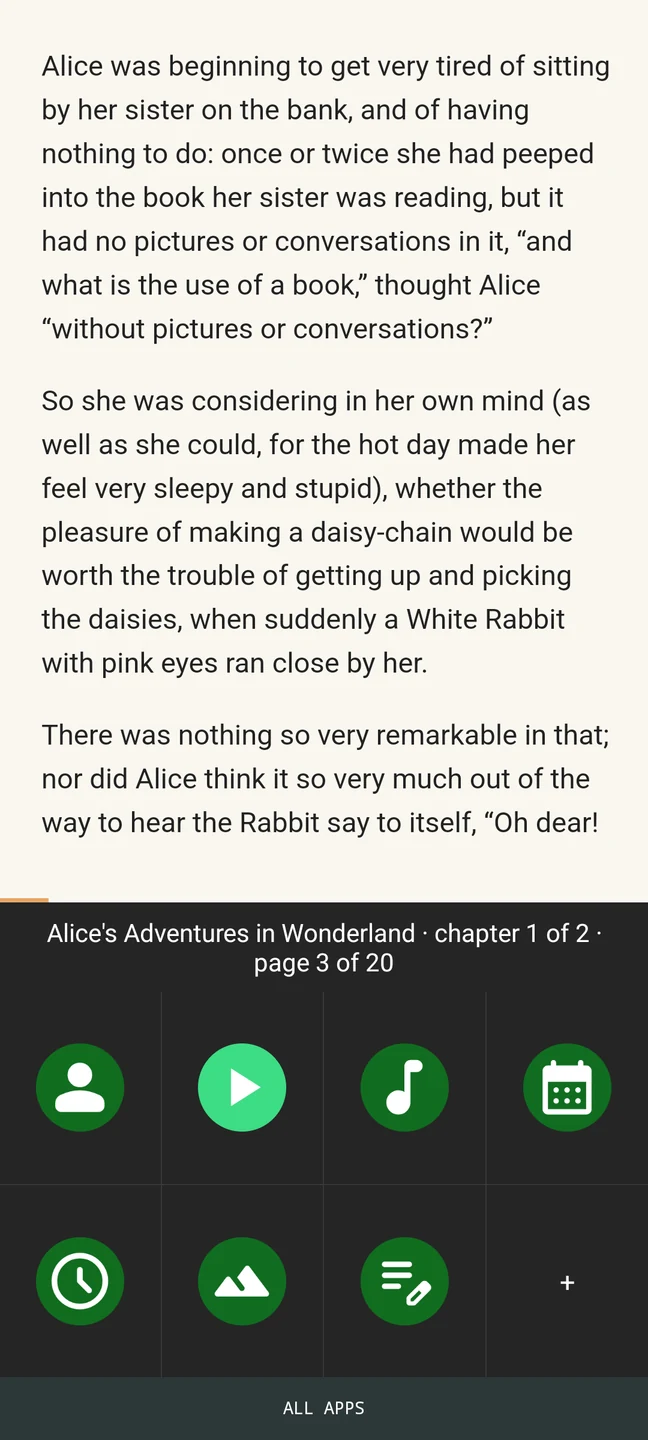
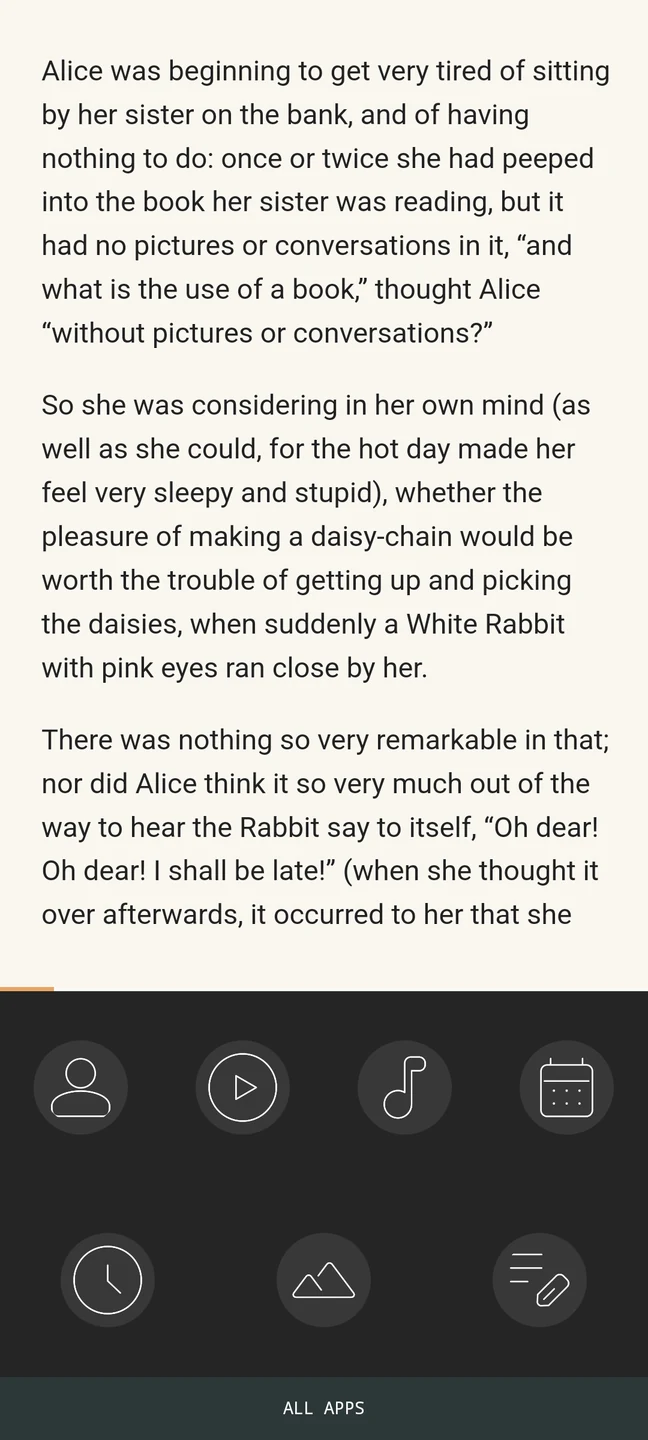
Refresh README demos at 60 fps with the Mate 10 Pro layout
Re-recorded every demo at 60 fps on a correctly configured emulator.
Read uses E-paper with symmetrical round keys and black Arcticons; Watch
uses asymmetrical square blocks with white Arcticons over Ansel Adams'
public domain Tetons photograph. Gallery captions and credits updated.

diff --git a/README.md b/README.md
@@ -35,7 +35,7 @@ Snapplication puts the book or video you were last using in the centre of Home, 
 <table>
   <tr>
     <td align="center" width="50%"><img src="docs/images/demo-read.webp" width="300" alt="The screen wakes onto Read Home in the E-paper theme with round favourites and a book on the page last read. Tapping it opens the book full screen; taps turn the pages and Back returns Home with the place saved"></td>
-    <td align="center" width="50%"><img src="docs/images/demo-custom.webp" width="300" alt="Settings change the icon style from Circles to Squares, then the Home viewer quick layout to Clean plus progress; Home updates after each change"></td>
+    <td align="center" width="50%"><img src="docs/images/demo-custom.webp" width="300" alt="Settings change the icon style from Circles to Squares, then the Home viewer quick layout from Standard to Clean plus progress; Home updates after each change"></td>
   </tr>
   <tr>
     <td align="center"><b>Read.</b> Your book waits on Home. One tap opens it full screen.</td>
@@ -45,51 +45,51 @@ Snapplication puts the book or video you were last using in the centre of Home, 
 
 ## Themes and layouts
 
-Every screen below comes from the same build with a different combination of settings. Themes, icon styles and viewer layouts can be mixed freely, and Read and Watch can each keep their own.
+Every screen below comes from the same build with a different combination of settings. Themes, icon styles, icon packs and viewer layouts can be mixed freely, and Read and Watch can each keep their own.
 
 <table>
   <tr>
-    <td align="center"><img src="docs/images/read-light-squares.webp" width="200" alt="Read Home in the Light theme: the Alice title page above square favourite blocks"></td>
-    <td align="center"><img src="docs/images/read-epaper-circles.webp" width="200" alt="Read Home in the E-paper theme: an EPUB page above round favourite keys"></td>
-    <td align="center"><img src="docs/images/read-dark-wallpaper.webp" width="200" alt="Read Home in the Dark theme with the Blue Marble wallpaper showing behind square favourites"></td>
+    <td align="center"><img src="docs/images/read-epaper-circles.webp" width="200" alt="Read Home in the E-paper theme: an EPUB page above symmetrical round favourite keys with black line icons, no buttons and a progress bar"></td>
+    <td align="center"><img src="docs/images/read-light-squares.webp" width="200" alt="Read Home in the Light theme: the Alice title page above square favourite blocks with the title line shown"></td>
+    <td align="center"><img src="docs/images/read-dark-wallpaper.webp" width="200" alt="Read Home in the Dark theme with a black and white mountain photograph behind round favourite keys"></td>
   </tr>
   <tr>
-    <td align="center"><sub>Light · Squares</sub></td>
-    <td align="center"><sub>E-paper · Circles</sub></td>
-    <td align="center"><sub>Dark · wallpaper · Squares</sub></td>
+    <td align="center"><sub>E-paper · Circles · clean + progress</sub></td>
+    <td align="center"><sub>Light · Squares · standard</sub></td>
+    <td align="center"><sub>Dark · wallpaper · Circles</sub></td>
   </tr>
   <tr>
-    <td align="center"><img src="docs/images/read-oled-circles.webp" width="200" alt="Read Home in the OLED Black theme: an EPUB chapter page above round favourite keys"></td>
-    <td align="center"><img src="docs/images/read-material-you.webp" width="200" alt="Read Home in the Material You theme using Android's wallpaper colours"></td>
-    <td align="center"><img src="docs/images/read-custom-colours.webp" width="200" alt="Read Home with custom background and accent colours"></td>
+    <td align="center"><img src="docs/images/read-oled-list.webp" width="200" alt="Read Home in the OLED Black theme: an EPUB chapter above list favourites with app names"></td>
+    <td align="center"><img src="docs/images/read-material-you.webp" width="200" alt="Read Home in the Material You theme using Android's wallpaper colours, with square blocks"></td>
+    <td align="center"><img src="docs/images/read-custom-colours.webp" width="200" alt="Read Home with custom colours and an asymmetrical arrangement of round keys"></td>
   </tr>
   <tr>
-    <td align="center"><sub>OLED Black · Circles</sub></td>
+    <td align="center"><sub>OLED Black · List with names</sub></td>
     <td align="center"><sub>Material You · Squares</sub></td>
-    <td align="center"><sub>Custom colours</sub></td>
+    <td align="center"><sub>Custom colours · asymmetrical Circles</sub></td>
   </tr>
 </table>
 
 <table>
   <tr>
-    <td align="center" width="50%"><img src="docs/images/watch-dark-squares.webp" width="400" alt="Watch Home sideways: a saved video frame between square favourite blocks over the wallpaper, with a progress bar"></td>
-    <td align="center" width="50%"><img src="docs/images/watch-clean-progress.webp" width="400" alt="Watch Home with the Clean + progress layout: the video frame with no buttons and a thin progress bar"></td>
+    <td align="center" width="50%"><img src="docs/images/watch-dark-squares.webp" width="400" alt="Watch Home sideways: a saved video frame with no buttons and a progress bar, between asymmetrical square blocks with white line icons over a mountain photograph"></td>
+    <td align="center" width="50%"><img src="docs/images/watch-standard-progress.webp" width="400" alt="The same Watch Home with the standard layout: previous, play and next buttons under the video frame"></td>
   </tr>
   <tr>
-    <td align="center"><sub>Watch · Standard layout with progress</sub></td>
-    <td align="center"><sub>Watch · Clean + progress, tap the centre to continue</sub></td>
+    <td align="center"><sub>Watch · asymmetrical Squares · clean + progress</sub></td>
+    <td align="center"><sub>Watch · standard layout with buttons</sub></td>
   </tr>
   <tr>
     <td align="center"><img src="docs/images/watch-light-list.webp" width="400" alt="Watch Home in the Light theme with labelled list favourites either side of the video frame"></td>
-    <td align="center"><img src="docs/images/watch-oled-circles.webp" width="400" alt="Watch Home in OLED Black with round favourite keys over the wallpaper"></td>
+    <td align="center"><img src="docs/images/watch-oled-circles.webp" width="400" alt="Watch Home in OLED Black with round favourite keys over the photograph"></td>
   </tr>
   <tr>
     <td align="center"><sub>Light · List with names</sub></td>
     <td align="center"><sub>OLED Black · Circles · wallpaper</sub></td>
   </tr>
   <tr>
-    <td align="center"><img src="docs/images/drawer-transparent.webp" width="400" alt="All Apps over the wallpaper with search and an alphabet rail"></td>
-    <td align="center"><img src="docs/images/settings-transparent.webp" width="400" alt="Settings sideways over the wallpaper with a category rail"></td>
+    <td align="center"><img src="docs/images/drawer-transparent.webp" width="400" alt="All Apps over the photograph with search, line icons and an alphabet rail"></td>
+    <td align="center"><img src="docs/images/settings-transparent.webp" width="400" alt="Settings sideways over the photograph with a category rail"></td>
   </tr>
   <tr>
     <td align="center"><sub>All Apps with search and A–Z rail</sub></td>
@@ -101,7 +101,7 @@ Every screen below comes from the same build with a different combination of set
   <tr>
     <td align="center"><img src="docs/images/settings-home-viewer.webp" width="200" alt="Home viewer settings: Quick layout, buttons on the viewer, progress bar, own books and videos, page buttons and content sizing"></td>
     <td align="center"><img src="docs/images/settings-mode.webp" width="200" alt="The Mode dialog offering Watch, Read and Universal"></td>
-    <td align="center"><img src="docs/images/demo-rotate.webp" width="230" alt="A phone held upright shows Read in E-paper with round favourites, then turns sideways and Home switches to Watch with square favourites and a video"></td>
+    <td align="center"><img src="docs/images/demo-rotate.webp" width="230" alt="A phone held upright shows Read in E-paper with round keys, then turns sideways and Home switches to Watch with square blocks and a video"></td>
   </tr>
   <tr>
     <td align="center"><sub>Home viewer settings</sub></td>
@@ -109,7 +109,7 @@ Every screen below comes from the same build with a different combination of set
     <td align="center"><sub>Universal: upright Read, sideways Watch</sub></td>
   </tr>
   <tr>
-    <td align="center"><img src="docs/images/demo-favourites.webp" width="200" alt="All Apps opens, the favourites editor adds Contacts, and Home shows the new key"></td>
+    <td align="center"><img src="docs/images/demo-favourites.webp" width="200" alt="All Apps opens, the favourites editor adds Files, and Home shows the new key"></td>
     <td align="center" colspan="2"><img src="docs/images/demo-countdown.webp" width="420" alt="A local episode plays to its end full screen; a card counts down from five and the next episode starts on its own"></td>
   </tr>
   <tr>
@@ -121,12 +121,12 @@ Every screen below comes from the same build with a different combination of set
 <details>
 <summary>About these captures</summary>
 
-These are Android 15 emulator captures of the Universal edition. Everything shown is free to reuse:
+These are Android 15 emulator captures of the Universal edition, recorded at 60 frames per second. Read uses E-paper with symmetrical round keys; Watch uses a dark theme over a photograph with asymmetrical square blocks; both hide the viewer buttons and show a progress bar. Everything shown is free to reuse:
 
 - The books are Chapters I and II of *Alice's Adventures in Wonderland* (Lewis Carroll, 1865) with John Tenniel's 1865 illustrations, both public domain, set as a small PDF and EPUB for these captures.
 - The video is "Earth Views from the ISS" footage from NASA (public domain), trimmed and without its soundtrack.
-- The wallpaper is NASA Goddard's *Blue Marble 2007 East* (public domain).
-- The app icons belong to the open-source [Fossify](https://github.com/FossifyOrg) apps (GPL-3.0) and [Just Player](https://github.com/moneytoo/Player) (public domain, Unlicense), installed from F-Droid as examples. No apps are bundled with Snapplication.
+- The wallpaper is Ansel Adams' *The Tetons and the Snake River* (1942), made for the US National Park Service and in the public domain.
+- The line icons come from the open-source [Arcticons](https://github.com/Arcticons-Team/Arcticons) icon pack (GPL-3.0), white for Watch and black for Read. The apps are the open-source [Fossify](https://github.com/FossifyOrg) apps (GPL-3.0) and [Just Player](https://github.com/moneytoo/Player) (public domain, Unlicense), installed from F-Droid as examples. No apps or icon packs are bundled with Snapplication.
 
 They show the built-in reader and player and one supported video app. Not every external app offers the same controls. The white dots in some clips are Android's "show taps" indicator.
 
@@ -156,9 +156,9 @@ With the buttons hidden, tap the centre to carry on: a video plays or pauses, a 
 
 ### Make Home yours
 
-Pick lists, square blocks or **Circles** (small round keys with space around them, like an old typewriter) under Settings → Favourites → **Icon style**, then choose the block count, symmetry, labels, wallpaper and theme. With **Separate Read / Watch themes** on, each mode keeps its own colours and icon style, so turning the phone can switch from a transparent Watch screen to an E-paper Read screen. The alphabet rail and search find everything else.
+Pick lists, square blocks or **Circles** (small round keys with space around them, like an old typewriter) under Settings → Favourites → **Icon style**, then choose the block count, symmetry, labels, wallpaper and theme. With **Separate Read / Watch themes** on, each mode keeps its own colours, icon pack, icon style and symmetry, so turning the phone can switch from a transparent Watch screen to an E-paper Read screen. The alphabet rail and search find everything else.
 
-You can import your own TTF or OTF font. Installed icon packs are optional; no icon pack or paid font is included.
+You can import your own TTF or OTF font and use any installed icon pack. Icon packs are chosen in Settings and are left out of the All Apps list. No icon pack or paid font is included.
 
 ### Remote buttons and recorded actions
 
